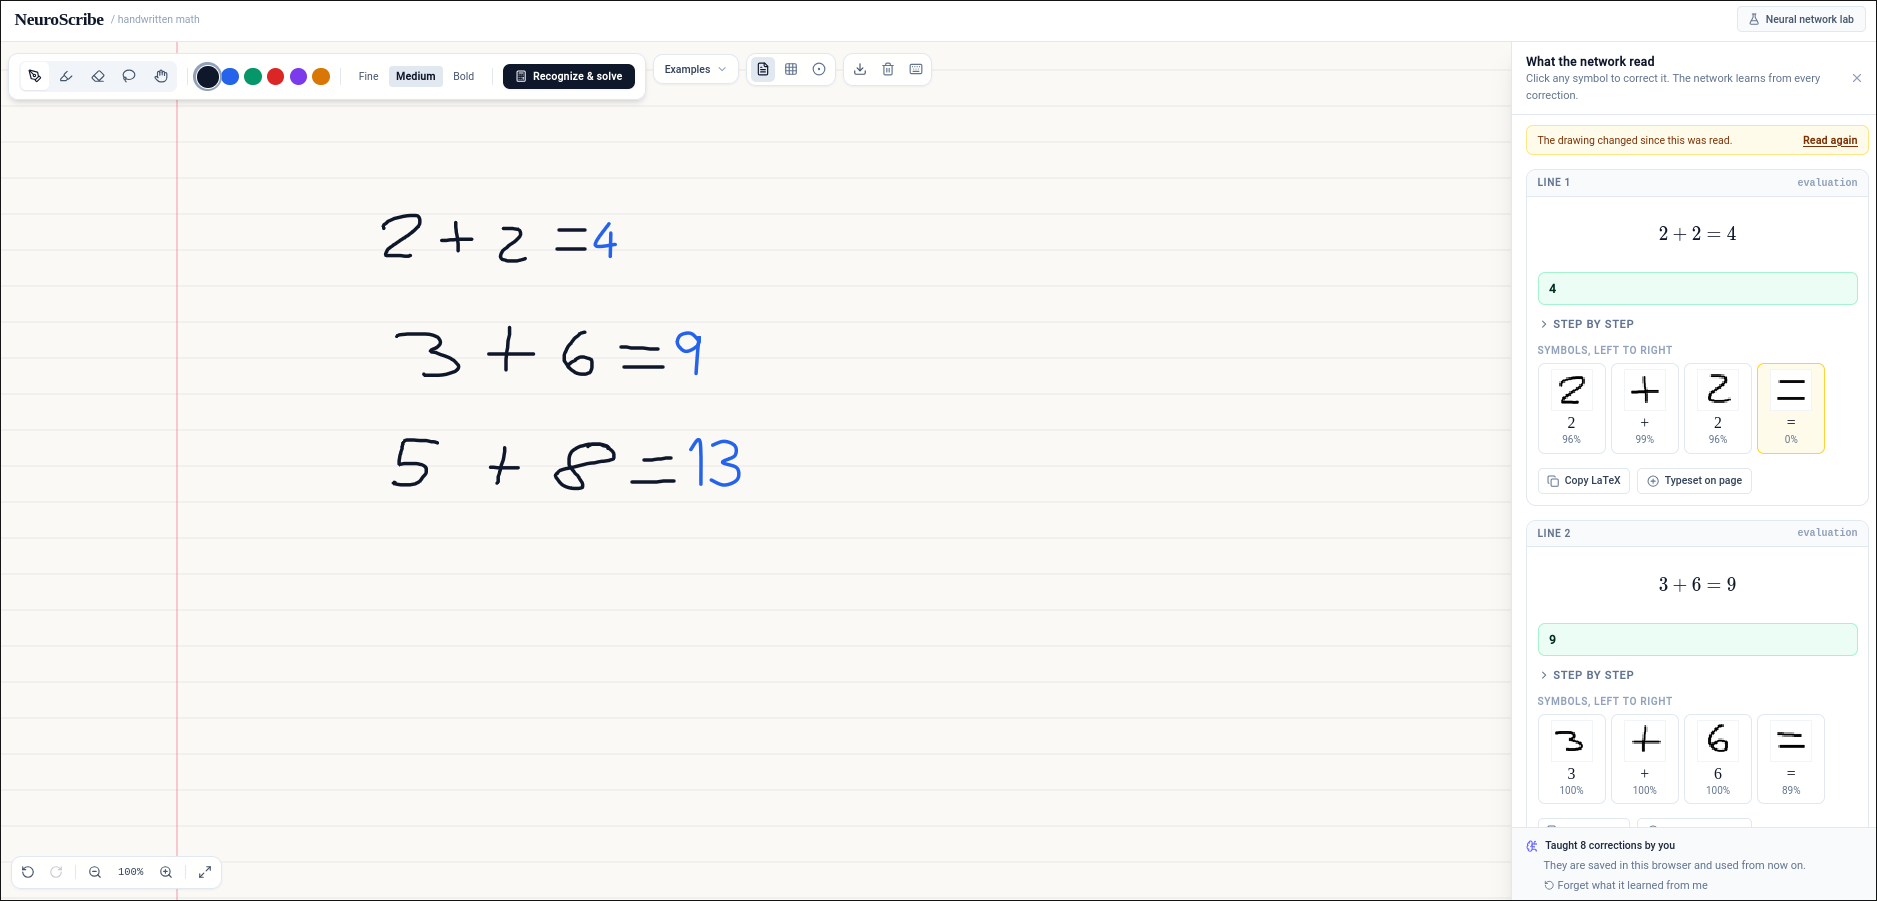
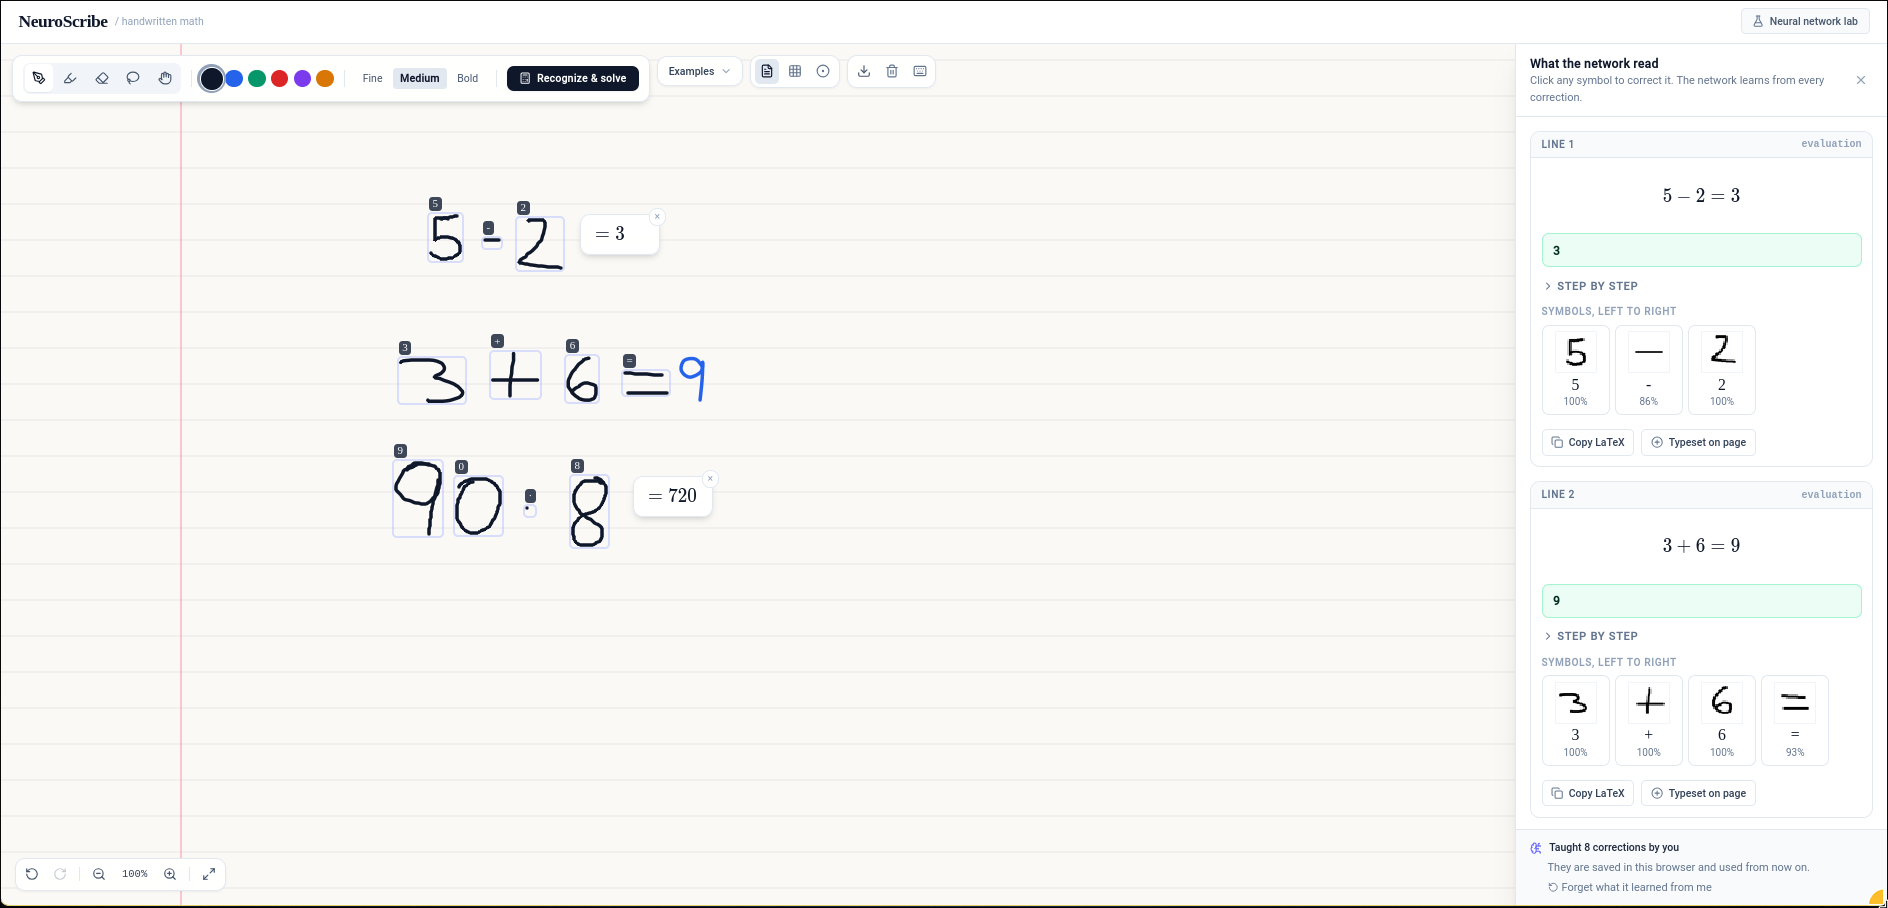
docs: update app screenshot

diff --git a/README.md b/README.md
@@ -12,9 +12,9 @@ NeuroScribe is a personal project I built to learn how neural networks and a han
 
 ## Screenshots
 
-**The app**: handwritten arithmetic is read, typeset and solved, and every symbol the network read is shown with its confidence so it can be corrected.
+**The app**: handwritten arithmetic is read, typeset and solved in place, and every symbol the network read is shown with its confidence so it can be corrected.
 
-![The handwriting app reading and solving three sums](docs/screenshots/app.png)
+![The handwriting app reading and solving three expressions](docs/screenshots/app.png)
 
 **The lab**: train a network in the browser and look inside it (network graph, parameters, weight dynamics, per-class metrics, confusion matrix, first-layer filters).
 
